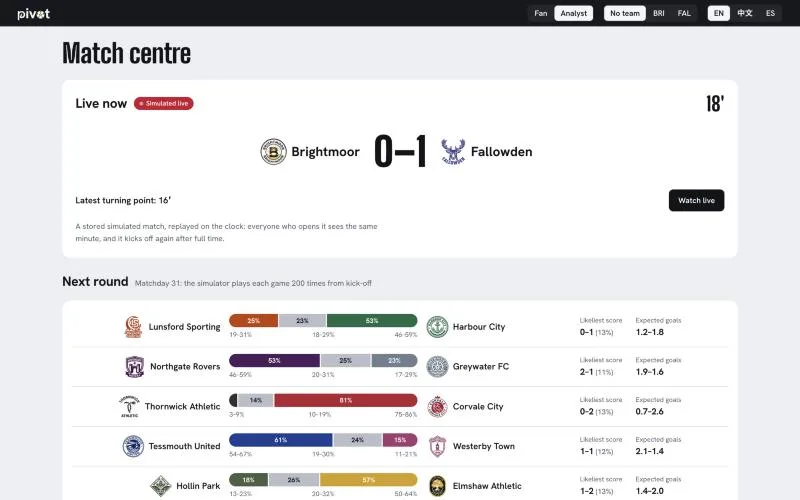
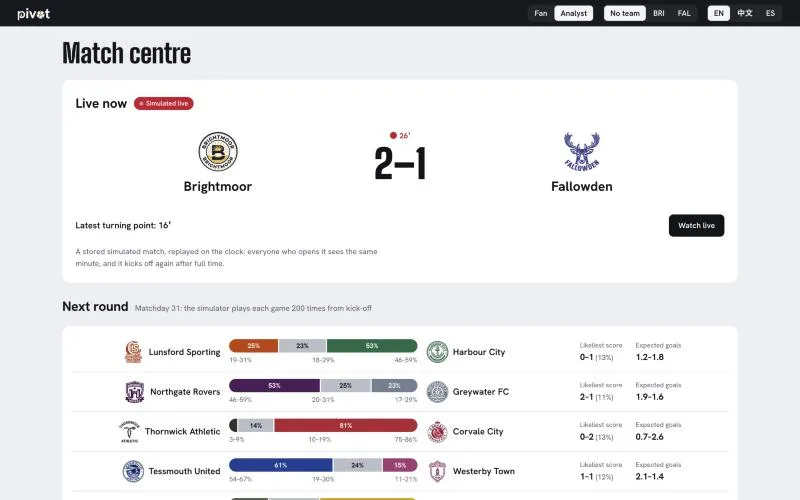
Dx12: stacked live-score layout (crest above name, clock above score); Hub fits at 375px (#443)

diff --git a/apps/web/src/styles/hub.css b/apps/web/src/styles/hub.css
@@ -7,11 +7,18 @@
 /* Live now: the one hero panel. */
 .hub-live { background: var(--pv-sheet); border-radius: var(--pv-r-panel); padding: var(--pv-s5); display: grid; gap: var(--pv-s4); }
 .hub-live-head { display: flex; align-items: center; gap: var(--pv-s3); }
-.hub-live-min { margin-left: auto; font-family: var(--pv-display); font-weight: 800; font-size: var(--pv-fs-2xl); line-height: 1; }
-.hub-live-score { display: grid; grid-template-columns: minmax(0, 1fr) auto minmax(0, 1fr); align-items: center; gap: var(--pv-s5);
+.hub-live-mid { display: grid; justify-items: center; gap: var(--pv-s2); }
+.hub-live-min { font-weight: 700; font-size: var(--pv-fs-sm); color: var(--pv-red); line-height: 1; }
+.hub-live-min.over { color: var(--pv-ink-2); }
+.hub-live-min:not(.over)::before { content: "● "; }
+.hub-live-score { display: grid; grid-template-columns: minmax(0, 1fr) auto minmax(0, 1fr); align-items: start; gap: var(--pv-s5);
   text-decoration: none; color: inherit; padding: var(--pv-s4) 0; border-radius: var(--pv-r-ctl); }
 .hub-live-score .hub-team { font-size: var(--pv-fs-xl); font-weight: 700; }
 .hub-live-score .hub-team:first-child { justify-content: flex-end; }
+/* Dx12: the live card reads like a live-score app, each team a column with its crest above the name. */
+.hub-live-score .hub-team { flex-direction: column; justify-content: flex-start; gap: var(--pv-s2); text-align: center; }
+.hub-live-score .hub-team:first-child { justify-content: flex-start; }
+.hub-live-score .hub-team .crest { width: 72px; height: 72px; }
 .hub-live-goals { font-family: var(--pv-display); font-weight: 900; font-size: var(--pv-fs-4xl); line-height: 1; }
 .hub-live-foot { display: flex; align-items: center; justify-content: space-between; gap: var(--pv-s4); }
 .hub-live-foot p { font-weight: 600; }
@@ -122,5 +129,22 @@ a.hub-past-row:hover { background: var(--pv-sunk); }
 /* Dx12: crests step down on phones so a row of two names and a score still fits at 375px. */
 @media (max-width: 720px) {
   .hub-team .crest { width: 28px; height: 28px; }
-  .hub-live-score .hub-team .crest { width: 36px; height: 36px; }
+  .hub-live-score .hub-team .crest { width: 48px; height: 48px; }
+  .hub-live-score .hub-team { font-size: var(--pv-fs-md); }
+}
+
+/* Phones: nothing on the Hub may push the page wider than the screen (found while adding crests, #443).
+   A round's own schedule list drops its fixed venue/date columns, and each next-round fixture stacks:
+   the two teams on one line, the prediction bar full width under them, then the likeliest score and xG. */
+@media (max-width: 720px) {
+  .hub-sched-row, .hub-sched-row:has(> .hub-meta:first-child:empty) { grid-template-columns: minmax(0, 1fr) 16px minmax(0, 1fr); }
+  .hub-sched-row > .hub-meta { grid-column: 1 / -1; }
+  .hub-sched-row > .hub-meta:empty { display: none; }
+  .hub-fx { grid-template-columns: minmax(0, 1fr) minmax(0, 1fr); grid-template-areas: "home away" "pred pred" "facts facts"; row-gap: var(--pv-s2); }
+  .hub-fx > .hub-team:first-child { grid-area: home; justify-content: flex-start; }
+  .hub-fx > .hub-team:last-of-type { grid-area: away; justify-content: flex-end; text-align: right; }
+  .hub-fx > .hub-pred, .hub-fx > .hub-meta { grid-area: pred; }
+  .hub-fx > .hub-facts { grid-area: facts; grid-column: auto; flex-wrap: wrap; gap: var(--pv-s2) var(--pv-s5); }
+  .hub-section-head { flex-wrap: wrap; }
+  .hub-team { overflow-wrap: anywhere; }
 }

diff --git a/apps/web/src/styles/base.css b/apps/web/src/styles/base.css
@@ -585,14 +585,11 @@ details.more > summary small { font-weight: 600; text-transform: none; color: va
 .match-stick.full { top: var(--mh-full-h, 0px); }
 .mh { position: relative; color: #FFFFFF; background: linear-gradient(90deg, var(--pv-home-kit, #1E6B45) 0 50%, var(--pv-away-kit, #4A1D57) 50% 100%); padding: 14px 32px 16px; display: grid; gap: 10px; }
 .mh-score { display: grid; grid-template-columns: minmax(0, 1fr) auto minmax(0, 1fr); align-items: start; gap: 4px 28px; max-width: 1280px; width: 100%; margin: 0 auto; }
-.mh-team { display: grid; gap: 4px; min-width: 0; padding-top: 14px; }
-.mh-team.home { justify-items: end; text-align: right; }
-.mh-team.away { justify-items: start; text-align: left; }
+.mh-team { display: grid; justify-items: center; align-content: start; gap: 6px; min-width: 0; text-align: center; }
 .mh-name { display: inline-flex; align-items: center; gap: 10px; font-family: var(--pv-display); font-weight: 800; font-size: 40px; line-height: 1; min-width: 0; max-width: 100%; }
-.mh-team.home .mh-name { flex-direction: row-reverse; }
 .mh-name .tm-full { overflow: hidden; text-overflow: ellipsis; white-space: nowrap; }
 .mh-name .tm-short { display: none; }
-.mh-name .crest { flex: none; width: 80px; height: 80px; margin-block: -14px; object-fit: contain; filter: drop-shadow(0 2px 4px rgba(0, 0, 0, .35)); }
+.mh-crest { width: 80px; height: 80px; object-fit: contain; filter: drop-shadow(0 2px 4px rgba(0, 0, 0, .35)); }
 /* Ax69: the ♥ beside each name picks the viewer's team. A user's choice is ink or white, never yellow. */
 .fav-btn { display: inline-grid; place-items: center; min-width: 32px; min-height: 32px; padding: 0 4px; border: 0; border-radius: var(--pv-r-pill); background: transparent; color: inherit; font: inherit; font-family: var(--pv-body); line-height: 1; cursor: pointer; opacity: .72; }
 .fav-btn:hover { opacity: 1; background: rgba(0, 0, 0, .18); }
@@ -604,8 +601,6 @@ details.more > summary small { font-weight: 600; text-transform: none; color: va
 .follow-x:hover { background: rgba(255, 255, 255, .2); }
 .mh-goals { list-style: none; margin: 0; padding: 0; font-weight: 500; font-size: var(--pv-fs-sm); line-height: 1.45; color: rgba(255, 255, 255, .88); }
 .mh-goals li::before { content: "⚽ "; font-size: .85em; }
-.mh-team.home .mh-goals li::before { content: none; }
-.mh-team.home .mh-goals li::after { content: " ⚽"; font-size: .85em; }
 .mh-mid { display: grid; justify-items: center; gap: 6px; }
 .mh-sc { display: flex; align-items: center; font-family: var(--pv-display); font-weight: 900; font-size: 60px; line-height: 1; background: #14161A; color: #FFFFFF; border-radius: 12px; padding: 4px 18px 6px; box-shadow: 0 12px 28px -14px rgba(0, 0, 0, .7); }
 .mh-sc > span:not(.mh-dash) { min-width: .75em; text-align: center; }
@@ -619,7 +614,7 @@ details.more > summary small { font-weight: 600; text-transform: none; color: va
   .mh-name { font-size: 22px; gap: 6px; }
   .mh-name .tm-full { display: none; }
   .mh-name .tm-short { display: inline; }
-  .mh-name .crest { width: 36px; height: 36px; margin-block: -6px; }
+  .mh-crest { width: 48px; height: 48px; }
   .mh-goals { display: none; }
   .mh-sc { font-size: 32px; padding: 2px 10px 4px; }
 }

diff --git a/apps/web/src/components/ScoreHeader.tsx b/apps/web/src/components/ScoreHeader.tsx
@@ -49,8 +49,9 @@ function TeamSide({ side, fav }: { side: Side; fav: boolean }) {
   const goals = scorers(events, side, playerName, t, at);
   return (
     <div className={`mh-team ${side}${fav ? " fav" : ""}`} style={{ "--tc": team.color } as CSSProperties}>
+      {/* Dx12: live-score layout, each team a column with its crest above the name. */}
+      <Crest short={team.short_name} size={80} className="mh-crest" />
       <span className="mh-name" title={team.name}>
-        <Crest short={team.short_name} size={80} />
         <span className="tm-full">{team.name}</span>
         <span className="tm-short">{team.short_name}</span>
         <FollowTeam side={side} />
@@ -150,14 +151,14 @@ export default function ScoreHeader({ prefs, fold, children }: Props & { fold?: 
       <div className="mh-score">
         <TeamSide side="home" fav={prefs.focus_team === "home"} />
         <div className="mh-mid">
+          <span className="mh-state">
+            {match.status !== "scheduled" && <span className="mh-clock num">{match.clockLabel}</span>}
+            <Stamp tone={shown === "replay" ? "line" : STATUS_TONE[shown]}>{t(shown === "replay" ? "tabs.replay" : `status.${shown}`)}</Stamp>
+          </span>
           <span className="mh-sc num" role="img" aria-label={`${teams.home.name} ${match.score.home}, ${teams.away.name} ${match.score.away}`}>
             <span>{match.score.home}</span>
             <span className="mh-dash" aria-hidden="true">–</span>
             <span>{match.score.away}</span>
-          </span>
-          <span className="mh-state">
-            {match.status !== "scheduled" && <span className="mh-clock num">{match.clockLabel}</span>}
-            <Stamp tone={shown === "replay" ? "line" : STATUS_TONE[shown]}>{t(shown === "replay" ? "tabs.replay" : `status.${shown}`)}</Stamp>
           </span>
         </div>
         <TeamSide side="away" fav={prefs.focus_team === "away"} />

diff --git a/apps/web/src/pages/Hub.tsx b/apps/web/src/pages/Hub.tsx
@@ -79,15 +79,17 @@ function LiveNow({ live, line, fav }: { live: HubLive; line: HubLine; fav: strin
       <div className="hub-live-head">
         <h2 id="hub-live-h">{t("hub.live.title")}</h2>
         <Stamp tone="live">{t("hub.live.sim")}</Stamp>
-        <span className="hub-live-min num" aria-label={t("hub.live.clock", { minute: now.minute })}>
-          {now.over ? t("status.finished") : `${now.minute}′`}
-        </span>
       </div>
       <Link to={href} className="hub-live-score" aria-label={t("hub.open", {
         home: line.home.name, away: line.away.name, score: `${now.score.home}–${now.score.away}` })}>
-        <TeamName team={line.home} fav={fav} crest={48} />
-        <span className="hub-live-goals num">{now.score.home}–{now.score.away}</span>
-        <TeamName team={line.away} fav={fav} crest={48} />
+        <TeamName team={line.home} fav={fav} crest={72} />
+        <span className="hub-live-mid">
+          <span className={`hub-live-min num${now.over ? " over" : ""}`} aria-label={t("hub.live.clock", { minute: now.minute })}>
+            {now.over ? t("status.finished") : `${now.minute}′`}
+          </span>
+          <span className="hub-live-goals num">{now.score.home}–{now.score.away}</span>
+        </span>
+        <TeamName team={line.away} fav={fav} crest={72} />
       </Link>
       <div className="hub-live-foot">
         <p>

diff --git a/apps/web/src/styles/live-layout.css b/apps/web/src/styles/live-layout.css
@@ -76,7 +76,8 @@
   /* A compact analyst scoreboard leaves room for the working data; manual expansion still wins. */
   body:has(.live-lay.an) .mh:not(.slim):not(.pinned) { padding: 8px 32px; gap: 4px; }
   body:has(.live-lay.an) .mh:not(.slim):not(.pinned) .mh-score { align-items: center; }
-  body:has(.live-lay.an) .mh:not(.slim):not(.pinned) .mh-team { padding-top: 0; }
+  body:has(.live-lay.an) .mh:not(.slim):not(.pinned) .mh-team { padding-top: 0; gap: 2px; }
+  body:has(.live-lay.an) .mh:not(.slim):not(.pinned) .mh-crest { width: 40px; height: 40px; }
   body:has(.live-lay.an) .mh:not(.slim):not(.pinned) .mh-name { font-size: 28px; }
   body:has(.live-lay.an) .mh:not(.slim):not(.pinned) .mh-sc { font-size: 38px; padding: 3px 12px; box-shadow: none; }
   body:has(.live-lay.an) .mh:not(.slim):not(.pinned) .mh-mid { display: flex; align-items: center; gap: 12px; }
